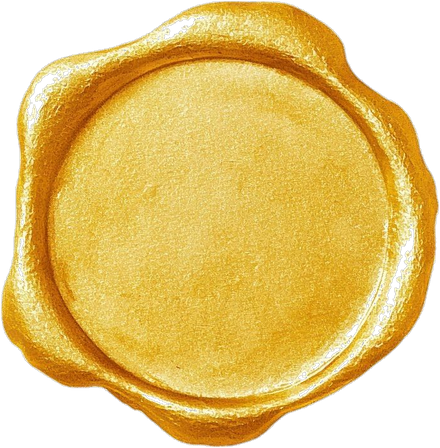
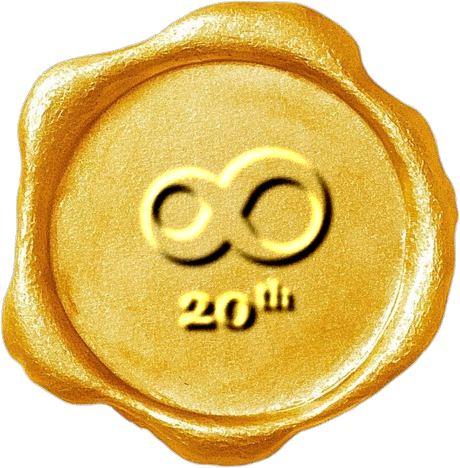
[R0] Con dấu sáp: full gold (lấp lỗ) + ∞ & "20th" DẬP NỔI (emboss thật)
Đối chiếu thay đổi (cả 2 trang):
• Con dấu:
    Trước: gold nhưng còn vệt tối/hở ở rãnh; emblem là lớp CSS phẳng (bronze) chồng lên.
    Sau:   con dấu ĐẶC FULL VÀNG (đã lấp lỗ specular), logo ∞ + "20th" được DẬP NỔI
           (emboss) nung sẵn trong ảnh — nổi cùng chất sáp, bắt sáng cạnh trên, bóng cạnh dưới,
           theo đúng phong cách ảnh mẫu stamp-mau.png.
• Ẩn lớp CSS emblem cũ (tránh chồng đôi).

Giữ nguyên (luật R0): form, collect(), payload, honeypot, /api/rsvp.
Asset: wax-seal.png cập nhật (gold sạch + emboss ∞/20th, 460px ~410KB).

Changed region(s): [[0.2955, 0.3125, 0.7386, 0.7188], [0.8568, 0.6875, 0.8864, 0.7188]]

diff --git a/dang-ky.html b/dang-ky.html
@@ -613,6 +613,9 @@
   .wax-20th sup{font-size:.48em;margin-left:1px}
   @media(max-width:520px){.wax-seal{width:132px;height:132px}.wax-inf{width:48px;height:28px}.wax-20th{font-size:1.3rem}}
   @media(max-height:440px){.wax-seal{width:94px;height:94px;margin-bottom:8px}.wax-inf{width:36px;height:21px}.wax-20th{font-size:1.02rem}}
+
+  /* emblem ∞+20th đã nung trong ảnh con dấu -> ẩn lớp CSS cũ */
+  .wax-emblem{display:none}
 </style>
 </head>
 <body class="gate-lock">

diff --git a/tiec-toi.html b/tiec-toi.html
@@ -613,6 +613,9 @@
   .wax-20th sup{font-size:.48em;margin-left:1px}
   @media(max-width:520px){.wax-seal{width:132px;height:132px}.wax-inf{width:48px;height:28px}.wax-20th{font-size:1.3rem}}
   @media(max-height:440px){.wax-seal{width:94px;height:94px;margin-bottom:8px}.wax-inf{width:36px;height:21px}.wax-20th{font-size:1.02rem}}
+
+  /* emblem ∞+20th đã nung trong ảnh con dấu -> ẩn lớp CSS cũ */
+  .wax-emblem{display:none}
 </style>
 </head>
 <body class="gate-lock">
